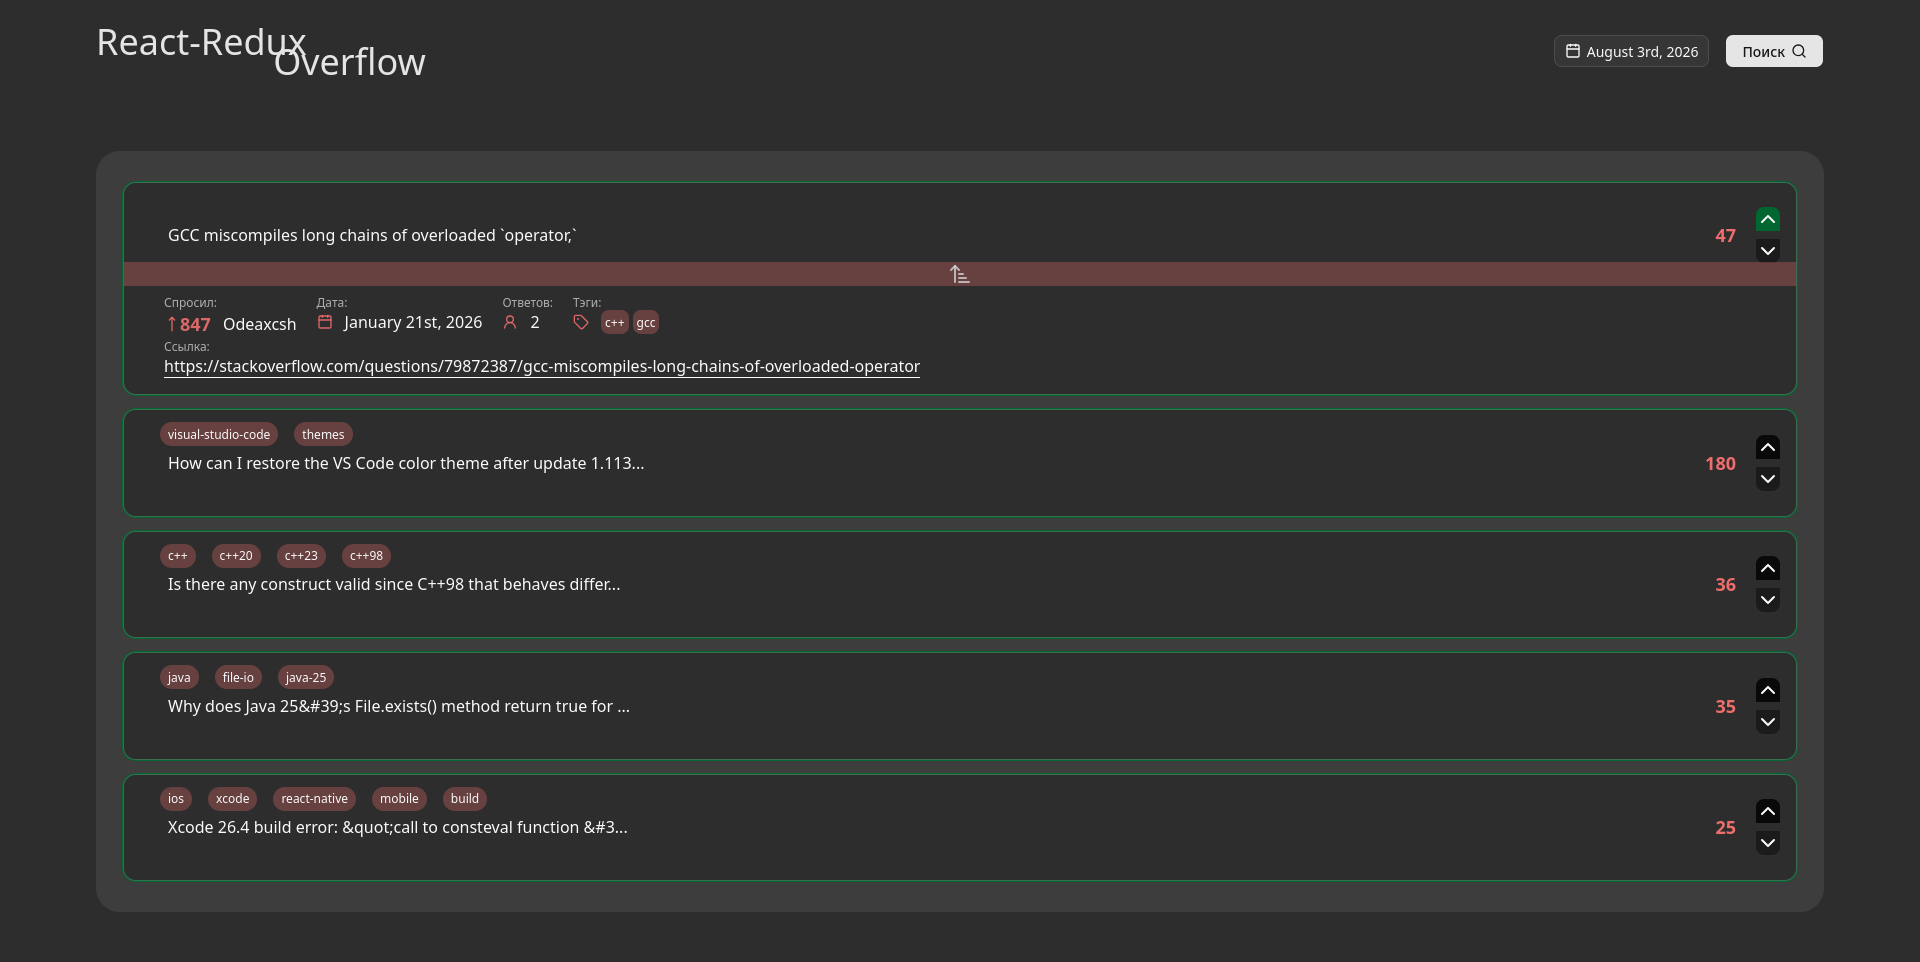
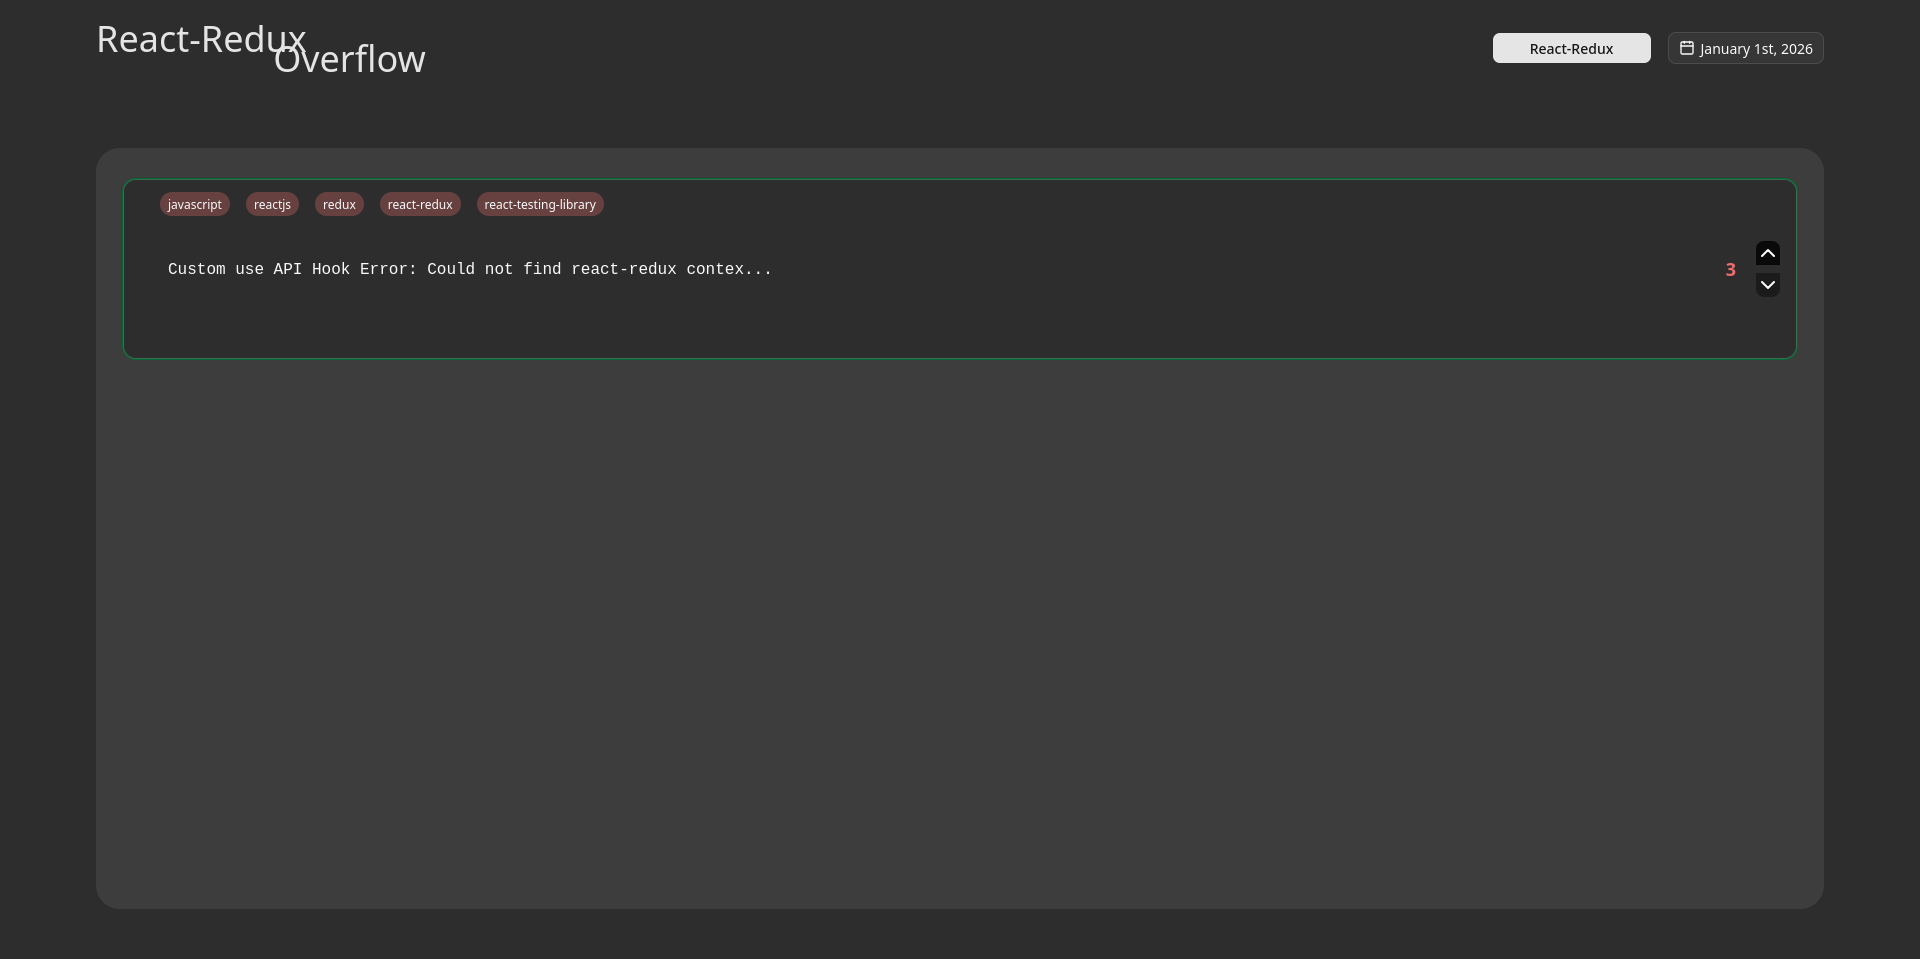
chore: update md

diff --git a/src/modules/list/components/ListItem.tsx b/src/modules/list/components/ListItem.tsx
@@ -115,7 +115,7 @@ const ListItem = forwardRef<HTMLDivElement, Props>(
     return (
       <div
         ref={ref}
-        className={`${question_id === selectedQuestionId ? "md:flex-2" : "md:flex-1"} m-2 max-h-[25%]`}
+        className={`${question_id === selectedQuestionId ? "md:flex-2" : "md:flex-1"} m-2`}
       >
         <div
           ref={drop as unknown as React.Ref<HTMLDivElement>}
@@ -123,7 +123,7 @@ const ListItem = forwardRef<HTMLDivElement, Props>(
         >
           <div
             ref={drag as unknown as React.Ref<HTMLDivElement>}
-            className={`flex h-full ${is_answered && "ring-2 ring-green-800 outline-1"} flex-col rounded-xl`}
+            className={`flex h-full md:max-h-56 ${is_answered && "ring-2 ring-green-800 outline-1"} flex-col rounded-xl`}
             onClick={() => {
               setTimeout(() => {
                 if (!isDoubleClick.current) {
@@ -223,9 +223,9 @@ function QuestionDetails({
           text={question.answer_count.toString()}
         />
         <InfoBlock icon={<Tag size={16} />} title="Тэги" text={""}>
-          <div className="flex gap-1">
+          <div className="flex gap-1 items-center flex-wrap my-2">
             {question.tags.map((tag, id) => (
-              <div key={id} className="rounded-lg bg-red/30 px-1 py-1 text-xs">
+              <div key={id} className="rounded-lg bg-red/30 px-1 py-1 text-xs h-fit">
                 {tag}
               </div>
             ))}

diff --git a/src/modules/header/Header.tsx b/src/modules/header/Header.tsx
@@ -21,7 +21,7 @@ export const Header: FC = () => {
       className="flex flex-col justify-between gap-4 pt-8 md:flex-row"
     >
       <Logo />
-      <div className="flex items-center justify-center md:ml-auto order-2 md:order-0">
+      <div className="order-2 flex items-center justify-center md:order-0 md:ml-auto">
         <Button
           className={"w-full md:min-w-40"}
           onClick={() => dispatch(changeQType())}

diff --git a/README.md b/README.md
@@ -11,7 +11,7 @@
   <img src="./public/image.png" alt="Preview" width="800" />
 </div>
 
-Репозиторий создан в рамках тестового задания. Разработка заняла **четыре дня**.
+Репозиторий создан в рамках тестового задания.
 
 **Основная задача:** отображение топ-5 вопросов с Stack Overflow, начиная с выбранной пользователем даты.
 
@@ -21,8 +21,9 @@
 
 ## Использование
 
-<div align="center">
-  <img src="./public/main.png" alt="Основной интерфейс" />
+<div style="display:flex; gap: 10px" align="center">
+  <img style="width: 80%; aspect-ratio: 16 / 9; object-fit: contain;"  src="./public/main.png" alt="Основной интерфейс" />
+  <img style="width: 20%; aspect-ratio: 9 / 16; object-fit: contain;" src="./public/mobile.png" alt="Мобильная версия" />
 </div>
 
 ### Взаимодействие с элементами списка
@@ -31,6 +32,10 @@
 - **Двойной клик** выделяет элемент (под ним появляется галочка). При выборе второго элемента они меняются местами в списке.
 - **Drag-and-Drop (DnD):** элемент можно перетащить, и при отпускании он меняется местами с элементом, над которым находится курсор.
 - **Визуальная индикация:** вопросы, отмеченные как "получен ответ", выделяются зелёной рамкой.
+
+### Фильтрация по заголовку
+
+- При смене режима фильтра (кнопка около смены даты) обновляется список.
 
 ### Управление датой и обновление списка
 
@@ -89,35 +94,35 @@
 
 ## Установка и запуск
 
-### Версия node.js 24+
-
 **ПРОДУКТ (варианты)**
 
 1. Перейти по ссылке: https://scrumify.ru
-2. В разделе __"Релизы"__ перейти на последний релиз
+2. В разделе **"Релизы"** перейти на последний релиз
 
 **РАЗРАБОТКА**
 
-1. **Клонирование репозитория**
+1. Установка **node.js 24+**
+
+2. **Клонирование репозитория**
 
    ```bash
    git clone https://github.com/NewEra2084/BFG.git
    ```
 
-2. **Установка зависимостей**
+3. **Установка зависимостей**
 
    ```bash
    cd BFG
    npm install
    ```
 
-3. **Запуск в режиме разработки**
+4. **Запуск в режиме разработки**
 
    ```bash
    npm run dev
    ```
 
-4. **Сборка для production**
+5. **Сборка для production**
 
    ```bash
    npm run build
